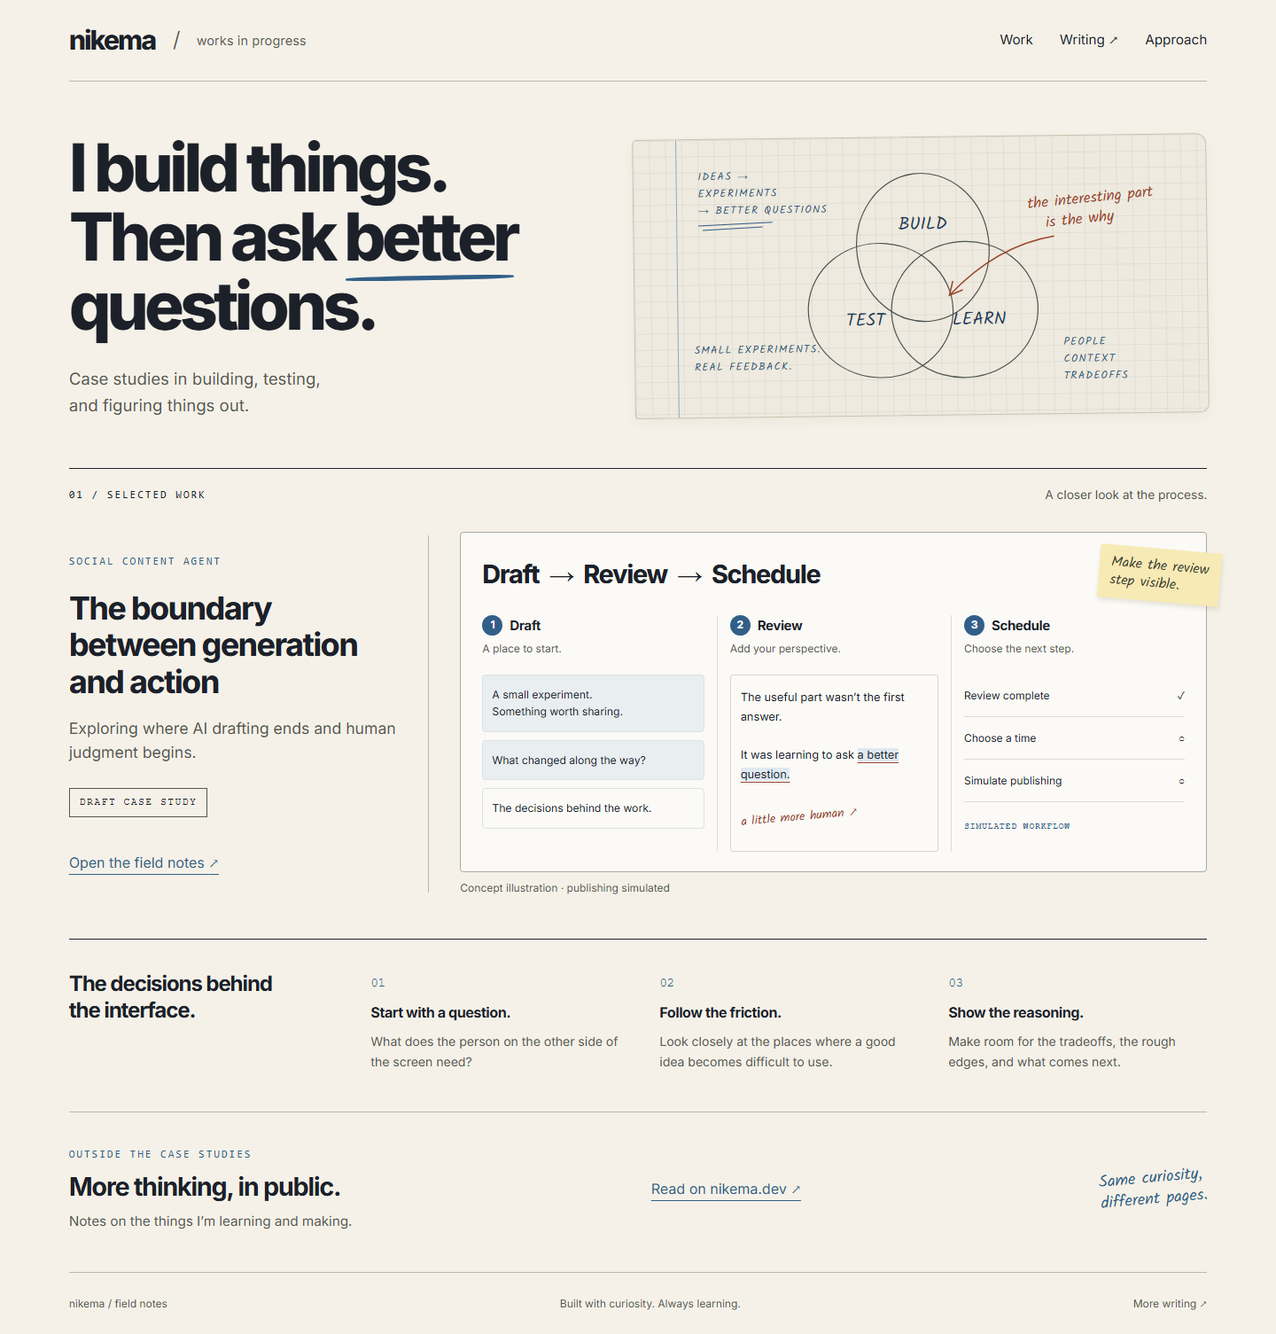
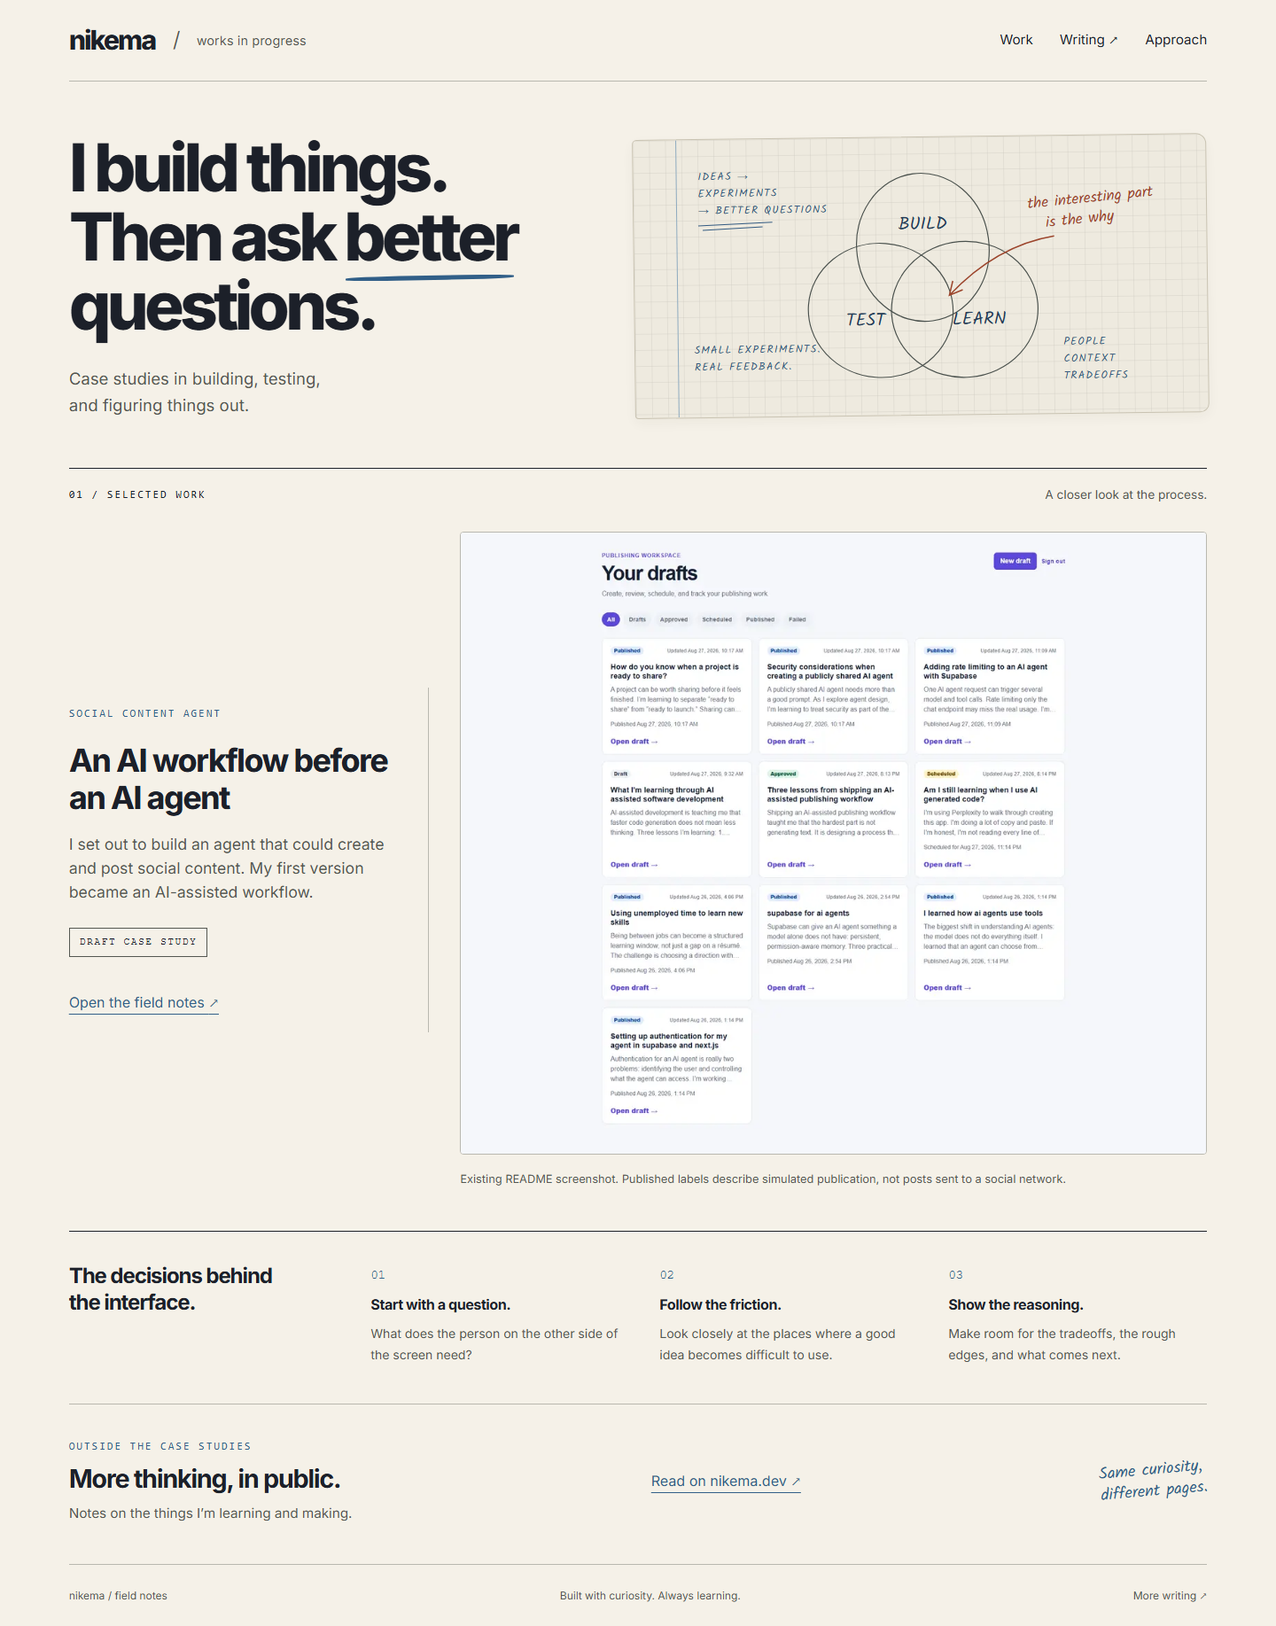
Update environment configuration and documentation for the Social Content Agent project. Set confirmed production SITE_URL, enhance README with project details, and refine case study content. Add cover caption support and ensure proper handling of draft visibility in production. Update tests to refl

diff --git a/src/app/page.tsx b/src/app/page.tsx
@@ -16,9 +16,10 @@ export default function Home() {
   return <main id="main">
     <section className="home-hero" aria-label="Introduction"><div className="hero-copy"><h1>I build things.<br/>Then ask <span className="underlined">better</span><br/>questions.</h1><p>Case studies in building, testing,<br className="desktop-break"/> and figuring things out.</p></div><StudioDiagram/></section>
     <section id="work" className="work-section"><div className="section-label"><h2>01 / Selected work</h2><span>A closer look at the process.</span></div>
-      {studies.length ? [...studies].sort((a,b) => Number(b.featured) - Number(a.featured)).map(study => <article className="feature" key={study.slug}><div className="feature-copy"><p className="eyebrow">{study.project}</p><h3>{study.title}</h3><p className="feature-summary">{study.summary}</p>{study.draft && <span className="draft-badge">Draft case study</span>}<Link className="text-link" href={`/case-studies/${study.slug}`}>Open the field notes <span aria-hidden="true">↗</span></Link></div>{study.cover ? <Image className="feature-cover" src={study.cover} alt={study.coverAlt!} width={study.coverWidth!} height={study.coverHeight!} sizes="(max-width: 800px) 88vw, 65vw"/> : study.draft && study.slug === 'social-content-agent' ? <WorkflowPreview/> : <p className="handwriting">A story taking shape.</p>}</article>) : <div className="empty-work"><h3>The field notes are taking shape.</h3><p>For now, you can find my writing on <a href="https://nikema.dev">nikema.dev ↗</a>.</p></div>}
+      {studies.length ? [...studies].sort((a,b) => Number(b.featured) - Number(a.featured)).map(study => <article className="feature" key={study.slug}><div className="feature-copy"><p className="eyebrow">{study.project}</p><h3>{study.title}</h3><p className="feature-summary">{study.summary}</p>{study.draft && <span className="draft-badge">Draft case study</span>}<Link className="text-link" href={`/case-studies/${study.slug}`}>Open the field notes <span aria-hidden="true">↗</span></Link></div>{study.cover ? <figure className="feature-photo"><Image className="feature-cover" src={study.cover} alt={study.coverAlt!} width={study.coverWidth!} height={study.coverHeight!} sizes="(max-width: 800px) 88vw, 65vw"/>{study.coverCaption && <figcaption>{study.coverCaption}</figcaption>}</figure> : study.draft && study.slug === 'social-content-agent' ? <WorkflowPreview/> : <p className="handwriting">A story taking shape.</p>}</article>) : <div className="empty-work"><h3>The field notes are taking shape.</h3><p>For now, you can find my writing on <a href="https://nikema.dev">nikema.dev ↗</a>.</p></div>}
     </section>
     <section id="approach" className="approach"><h2>The decisions behind<br/>the interface.</h2><div><span className="index-number">01</span><h3>Start with a question.</h3><p>What does the person on the other side of the screen need?</p></div><div><span className="index-number">02</span><h3>Follow the friction.</h3><p>Look closely at the places where a good idea becomes difficult to use.</p></div><div><span className="index-number">03</span><h3>Show the reasoning.</h3><p>Make room for the tradeoffs, the rough edges, and what comes next.</p></div></section>
     <section className="writing-callout"><div><p className="eyebrow">Outside the case studies</p><h2>More thinking, in public.</h2><p>Notes on the things I’m learning and making.</p></div><a className="text-link" href="https://nikema.dev">Read on nikema.dev ↗</a><span className="handwriting">Same curiosity,<br/>different pages.</span></section>
   </main>;
 }
+

diff --git a/tests/e2e/portfolio.spec.ts b/tests/e2e/portfolio.spec.ts
@@ -7,6 +7,11 @@ for (const width of [320, 390, 768, 1440]) {
     for (const [route, name] of [['/', 'home'], ['/case-studies/social-content-agent', 'study']]) {
       await page.goto(route);
       await page.evaluate(() => document.fonts.ready);
+      for (const img of await page.locator('main img').all()) {
+        await img.scrollIntoViewIfNeeded();
+        await expect.poll(() => img.evaluate(element => (element as HTMLImageElement).naturalWidth)).toBeGreaterThan(0);
+      }
+      await page.evaluate(() => window.scrollTo({ top: 0, behavior: 'instant' }));
       await expect(page.locator('h1')).toHaveCount(1);
       expect(await page.evaluate(() => document.documentElement.scrollWidth <= window.innerWidth)).toBe(true);
       await page.screenshot({ path: `docs/screenshots/${name}-${width}.png`, fullPage: true });
@@ -24,11 +29,11 @@ test('navigation, anchors, disclosures, and keyboard focus work', async ({ page 
   await page.keyboard.press('Enter');
   await page.getByRole('link', { name: 'Open the field notes' }).click();
   await expect(page.getByText('A work in progress.', { exact: true })).toBeVisible();
-  const chapter = page.getByRole('navigation', { name: 'Case study chapters' }).getByRole('link', { name: /Decisions to examine/ });
+  const chapter = page.getByRole('navigation', { name: 'Case study chapters' }).getByRole('link', { name: /Decisions visible in the code/ });
   await chapter.click();
-  await expect(page).toHaveURL(/#decisions-to-examine$/);
-  await expect(page.locator('#decisions-to-examine')).toBeInViewport();
-  await expect(page.locator('#decisions-to-examine')).toBeFocused();
+  await expect(page).toHaveURL(/#decisions-visible-in-the-code$/);
+  await expect(page.locator('#decisions-visible-in-the-code')).toBeInViewport();
+  await expect(page.locator('#decisions-visible-in-the-code')).toBeFocused();
   const summary = page.locator('summary').first();
   await summary.focus(); await page.keyboard.press('Enter');
   await expect(page.locator('details').first()).toHaveAttribute('open', '');

diff --git a/src/app/case-studies/[slug]/page.tsx b/src/app/case-studies/[slug]/page.tsx
@@ -26,7 +26,7 @@ export default async function StudyPage({ params }: Props) {
     {study.draft && <aside className="draft-notice"><strong>A work in progress.</strong> Draft narrative · project evidence and final copy are still being reviewed.</aside>}
     <div className="study-layout"><CaseStudyNav chapters={study.chapters}/><article className="study-article">
       <header className="study-hero"><p className="eyebrow">{study.project} / Field notes</p><h1>{study.title}</h1><p className="study-summary">{study.summary}</p><ProjectFacts study={study}/><ProofLinks links={study.links}/></header>
-      {study.cover ? <figure className="study-cover"><Image src={study.cover} alt={study.coverAlt!} width={study.coverWidth!} height={study.coverHeight!} sizes="(max-width: 800px) 88vw, 1000px" priority/></figure> : study.draft && study.slug === 'social-content-agent' ? <WorkflowPreview/> : null}
+      {study.cover ? <figure className="study-cover"><Image src={study.cover} alt={study.coverAlt!} width={study.coverWidth!} height={study.coverHeight!} sizes="(max-width: 800px) 88vw, 1000px" priority/>{study.coverCaption && <figcaption>{study.coverCaption}</figcaption>}</figure> : study.draft && study.slug === 'social-content-agent' ? <WorkflowPreview/> : null}
       <div className="prose"><Content components={mdxComponents}/></div>
       <div className="study-end"><Link className="text-link" href="/#work">← Back to selected work</Link><span className="handwriting">More questions.<br/>Better next steps.</span></div>
     </article></div></main>;

diff --git a/src/app/globals.css b/src/app/globals.css
@@ -10,3 +10,4 @@
 @media(max-width:500px){.study-page{padding-top:23px}.draft-notice{font-size:.8rem}.study-hero h1{font-size:2.65rem}.study-summary{font-size:1.1rem}.study-article>.workflow-figure .workflow-preview{padding:20px 17px}.study-article>.workflow-figure .workflow-heading{font-size:1.35rem}.study-article .preview-columns{grid-template-columns:1fr}.study-article .preview-column,.study-article .preview-column:first-child,.study-article .preview-column:last-child{padding:16px 0;border-left:0;border-top:1px solid var(--line)}.study-article .preview-column:first-child{border:0;padding-top:0}.prose>h2{font-size:1.8rem;padding-top:30px;margin-top:35px}.callout{padding:18px}.workflow-steps{grid-template-columns:1fr;gap:0}.decision{padding:20px}.decision dl{grid-template-columns:1fr;gap:8px}.evidence-row dt{align-items:flex-start;flex-direction:column;gap:10px}.image-gallery{grid-template-columns:1fr}.study-end .handwriting{font-size:1rem}.study-end .text-link{font-size:.85rem}}
 @media(max-width:500px){.margin-note{position:static;display:table;margin:4px 0 0 auto;transform:rotate(3deg)}.workflow-heading{font-size:1.35rem}}
 @media(prefers-reduced-motion:reduce){html{scroll-behavior:auto}*,*:before,*:after{animation:none!important;transition:none!important}}
+.feature-photo{min-width:0}.feature-photo figcaption,.study-cover figcaption{font-size:.8rem;line-height:1.6;color:var(--muted);margin-top:10px}.study-cover img{display:block}

diff --git a/tests/e2e/production.spec.ts b/tests/e2e/production.spec.ts
@@ -6,14 +6,17 @@ test('production excludes drafts from the homepage and direct routes', async ({ 
   expect(await page.content()).not.toContain('social-content-agent');
   const response = await request.get('/case-studies/social-content-agent');
   expect(response.status()).toBe(404);
-  expect(await response.text()).not.toContain('Exploring where AI drafting ends');
+  expect(await response.text()).not.toContain('An AI workflow before an AI agent');
 });
-test('sitemap and metadata do not leak drafts or invent a canonical domain', async ({ request }) => {
+test('sitemap and metadata use the confirmed domain and exclude drafts', async ({ request }) => {
   const sitemap = await request.get('/sitemap.xml');
   expect(sitemap.ok()).toBe(true);
   expect(await sitemap.text()).not.toContain('social-content-agent');
   expect(await sitemap.text()).not.toContain('localhost');
+  expect(await sitemap.text()).toContain('<loc>https://work.nikema.dev</loc>');
   const home = await request.get('/');
-  expect(await home.text()).not.toContain('rel="canonical"');
-  expect(await (await request.get('/robots.txt')).text()).toContain('Disallow: /');
+  expect(await home.text()).toContain('rel="canonical" href="https://work.nikema.dev"');
+  const robots = await (await request.get('/robots.txt')).text();
+  expect(robots).toContain('Allow: /');
+  expect(robots).toContain('Sitemap: https://work.nikema.dev/sitemap.xml');
 });

diff --git a/src/lib/site.ts b/src/lib/site.ts
@@ -1,6 +1,5 @@
 export function canonicalBase(): string | undefined {
-  if (!process.env.SITE_URL) return undefined;
-  const url = new URL(process.env.SITE_URL);
+  const url = new URL(process.env.SITE_URL || 'https://work.nikema.dev');
   if (url.protocol !== 'https:' || ['localhost', '127.0.0.1', 'example.com'].includes(url.hostname) || url.username || url.password || url.pathname !== '/' || url.search || url.hash) throw new Error('SITE_URL must be the confirmed HTTPS site origin.');
   return url.origin;
 }

diff --git a/src/lib/case-study-schema.ts b/src/lib/case-study-schema.ts
@@ -16,6 +16,7 @@ export const caseStudySchema = z.object({
   scope: z.string().trim().min(1).optional(),
   cover: z.string().optional(),
   coverAlt: z.string().trim().min(1).optional(),
+  coverCaption: z.string().trim().min(1).optional(),
   coverWidth: z.number().int().positive().optional(),
   coverHeight: z.number().int().positive().optional(),
   evidenceReviewed: z.boolean().default(false),

diff --git a/docs/social-content-agent-sources.md b/docs/social-content-agent-sources.md
@@ -1,0 +1,51 @@
+# Social Content Agent: content provenance
+
+Reviewed September 8, 2026. Local source: `C:/Users/admin/Development/social-content-agent`. Clean source checkout at `c68bd8d2f28480145c75fcebc7961bc2f97a08d5`. No application source edits or live data mutations were made.
+
+## Owner account incorporated
+
+Nikema described building it to start working with AI as an engineer and to meet a need for a social content agent. The original expectation was an agent that could create content and post to a social channel; the first-project scope was overly ambitious, and the resulting workflow became a starting point for building with AI integrated. The opening and closing paragraphs paraphrase those statements. Do not infer a deliberate original plan to defer publishing.
+
+## Source evidence
+
+Additional owner clarification: the first version was built with guidance from Perplexity, and Nikema did not write any of the code. This is now stated explicitly in the case study. Do not attribute code authorship or independent implementation of the inspected safeguards to Nikema. The precise guided workflow and personal learning still need the owner's account.
+
+The owner further clarified that Perplexity supplied code and instructions for setting up Supabase and Vercel. The build-process section now records that concrete workflow. Troubleshooting, independent decisions, and lessons have not yet been described.
+
+Subsequent learning reflection: this was the owner's first real Next.js app, through which they learned about Next.js structure and client/server separation. They have since moved to coding with Codex and their Hermes coding-bot. Their stated next goal is a better understanding of the code and confidence making additions independently. These reflections are now included in the closing section. Do not attribute the first version to those later tools or turn the independence goal into an already-achieved capability. No specific troubleshooting anecdote was recalled, so none was added.
+
+- `package.json`: Next.js, React, TypeScript, OpenAI SDK, Supabase.
+- `app/api/generate-draft/route.ts`: authentication, topic validation, stored brand voice, Responses API, 10/hour count-then-record quota. Concurrent-request enforcement is not atomic.
+- `lib/brandVoiceStore.ts`: per-user persistence and default voice fallback.
+- `lib/drafts.ts`: changed content revokes approval and schedule; approval and future scheduling gates; simulated due-draft publisher; separate state and event writes.
+- `app/api/jobs/publish-due-drafts/route.ts`: bearer-secret gate, GET and POST handlers.
+- `supabase/migrations/`: ownership policy definitions. The draft-creation migration lacks `approved_at` even though the application uses it. Live schema was not inspected.
+- `vercel.json`: `0 17 * * *` (daily 17:00 UTC), not the every-five-minutes README example. Live cron operation was not verified.
+- `npm test`: freshly run, 84 tests passed across 8 files, 31.77 seconds. Supabase and OpenAI mocked at their module boundaries. This does not verify real model outputs, deployed behavior, database integration, or live RLS enforcement.
+
+Source repository link was taken from the configured Git remote and returned HTTP 200. Implementation citations are pinned to the inspected commit. The linked video page returned HTTP 200 but generic YouTube metadata; playback and captions were not reviewed. It appears as an explicitly qualified README link, not verified demo evidence.
+
+## Image provenance
+
+- `draft-dashboard.png`: retrieved from the existing README URL `https://github.com/user-attachments/assets/24ae27e1-0f75-4498-96d8-ef40d7dc64d4`; 1802 × 1503. Visually inspected. Historical draft library screen, with simulated publication labels.
+- `generated-draft.png`: retrieved from `https://github.com/user-attachments/assets/9309727d-f64d-4aa9-9dec-7a5d5e3e487c`; 1802 × 1260. Visually inspected. Existing new-draft/editor screen, not a fresh capture of the current deployment.
+- `architecture.svg`: new source-derived diagram. Labeled as reconstructed, not a product screenshot or live infrastructure verification.
+
+The local demo thumbnail was inspected and found to be an illustration; it was not used as product imagery. No AI-generated product screen is presented as evidence.
+
+## Still awaiting owner input
+
+The owner supplied `https://social-content-agent-pi.vercel.app` as the deployed application URL. It is now the live project link and the project status is Deployed. The web tool could not open the URL, so deployment functionality has not been independently checked. Deployment does not change the simulated-publishing scope or the case study's draft status.
+
+Personal reasoning behind specific implementation decisions, exact role and AI/tool collaboration, any desired timeline, final wording, intended next iteration, and any live deployment/demo review. Keep `draft: true` and `evidenceReviewed: false` until final owner review.
+
+This source review updates the content-readiness statements in the original site verification report: source and two existing screenshots are now available and the isolated project tests have now been run. Live integration remains unverified.
+
+
+## Updated portfolio verification
+
+September 9 clarification: the owner confirmed that the hosted database already has approved_at. The discrepancy was in checked-in migration history. The migration work is now committed at 6798cb0, and the local branch matches its origin/main tracking reference. The earlier description below records its initially uncommitted state. No hosted SQL was applied by this review, and existing hosted timestamp triggers have not been inspected. README, migration guidance, and case-study copy now reflect this distinction.
+
+Follow-up maintenance after the source review: `social-content-agent/supabase/migrations/20260909010000_complete_draft_timestamps.sql` now adds nullable approved_at and a drafts updated_at trigger. This is an uncommitted local change after the pinned source snapshot, not part of c68bd8d or proof of a deployed schema change. Seven PGlite tests run real SQL against fresh and upgraded in-memory PostgreSQL databases with minimal Supabase auth substitutes. All 91 application tests, lint, and typecheck passed. The live database remains unchanged. The case-study note now distinguishes this follow-up fix from the original source-review finding.
+
+After integrating these assets and content, the portfolio tests passed (22 tests), lint passed, the production build passed, and all 9 browser checks passed in 34.2 seconds. Browser checks include actual image loading, responsive layouts, axe scans, keyboard navigation, and production draft exclusion. The new homepage screenshot was visually reviewed. Source checkout remained clean and matched origin/main.

diff --git a/docs/authoring-case-studies.md b/docs/authoring-case-studies.md
@@ -2,12 +2,12 @@
 
 1. Create `content/case-studies/<slug>/` and copy `content/templates/case-study.mdx` into it as `index.mdx`. Choose a unique lowercase hyphenated slug.
 2. Fill in project, title, summary, and an explicit `draft: true`. Add optional role, stack (a YAML list), timeline, projectStatus, scope, order, and featured only when useful and confirmed. Never infer project maturity from evidence status.
-3. Put real media in `public/case-studies/<slug>/`. Add `cover`, `coverAlt`, `coverWidth`, and `coverHeight` to frontmatter. `cover` must start with `/case-studies/`. Draft media in public remains addressable by URL; do not put private or sensitive files there.
+3. Put real media in `public/case-studies/<slug>/`. Add `cover`, `coverAlt`, `coverWidth`, and `coverHeight` to frontmatter. Use optional `coverCaption` to explain provenance or scope on both the homepage and detail page. `cover` must start with `/case-studies/`. Draft media in public remains addressable by URL; do not put private or sensitive files there.
 4. Write level-two headings for chapters and level-three subheadings. The loader derives heading IDs and the navigation automatically. Duplicate IDs and broken local heading anchors are errors. Do not add a level-one heading.
 5. Compose the standard components below. Props use quoted strings, including dimensions. Imports, exports, JavaScript expressions, arbitrary HTML, inline styles, and unknown components are rejected. MDX is trusted local authoring material, never an upload or remote feed.
 6. Run `npm run validate:content`, then preview with `npm run dev`. Check narrow and wide layouts. Run the checks listed in README. No route or CSS changes are needed to add a study.
 7. Review claims, imagery, links, alt text, scope, and copy with the owner. Set `evidenceReviewed: true` and then `draft: false` only when approved. Published metadata requires a real cover. Production must be rebuilt after content changes.
-8. Configure the confirmed canonical origin through `SITE_URL` and request publication separately. No deployment is part of local authoring.
+8. The confirmed canonical origin defaults to `https://work.nikema.dev`; use `SITE_URL` only for an owner-approved domain change. Request publication separately. No deployment is part of local authoring.
 
 ## Components
 

diff --git a/README.md b/README.md
@@ -24,9 +24,9 @@ See [the authoring guide](docs/authoring-case-studies.md) and `content/templates
 
 ## Publication status
 
-The first Social Content Agent study is intentionally draft. Its text is proposed narrative, its workflow graphic is a labeled concept, and publishing is simulated. No project source, real screenshots, demo, architecture, role, timeline, or implementation results have been verified by this site work.
+The first Social Content Agent study is intentionally draft. It now includes the owner's account of the original ambition, inspected source, two existing project screenshots, a source-derived architecture diagram, and a fresh isolated test result (84 tests passing with mocked services). Publishing is simulated. Role details, personal decision history, final wording, live integration, and video contents remain unverified. See [content provenance](docs/social-content-agent-sources.md).
 
-Drafts render only in development. Production returns 404 for their URLs and excludes them from the homepage and sitemap. Publication requires reviewed evidence and a real cover. No canonical domain is invented: set `SITE_URL` to an owner-confirmed HTTPS origin only before an approved release. With no origin configured, the site requests no indexing and emits an empty sitemap.
+Drafts render only in development. Production returns 404 for their URLs and excludes them from the homepage and sitemap. Publication requires reviewed evidence and a real cover. The confirmed production canonical origin is `https://work.nikema.dev`, used by default for canonical links, the sitemap, and the production robots sitemap URL. `SITE_URL` can explicitly override it if the owner changes domains. Local development requests no indexing.
 
 No remote repository or deployment has been created.
 
